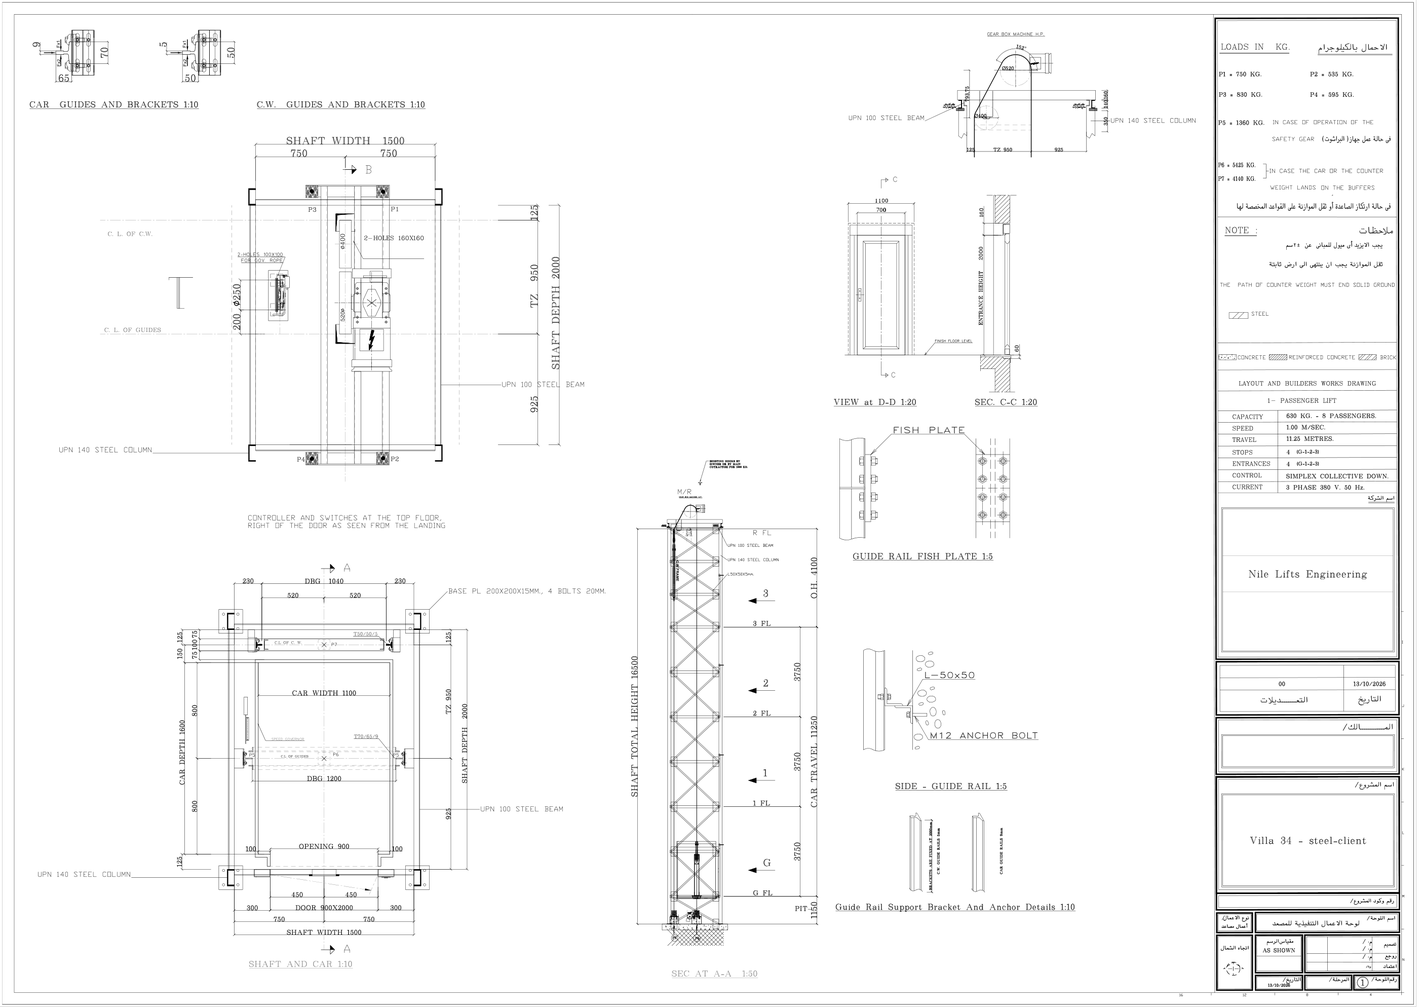
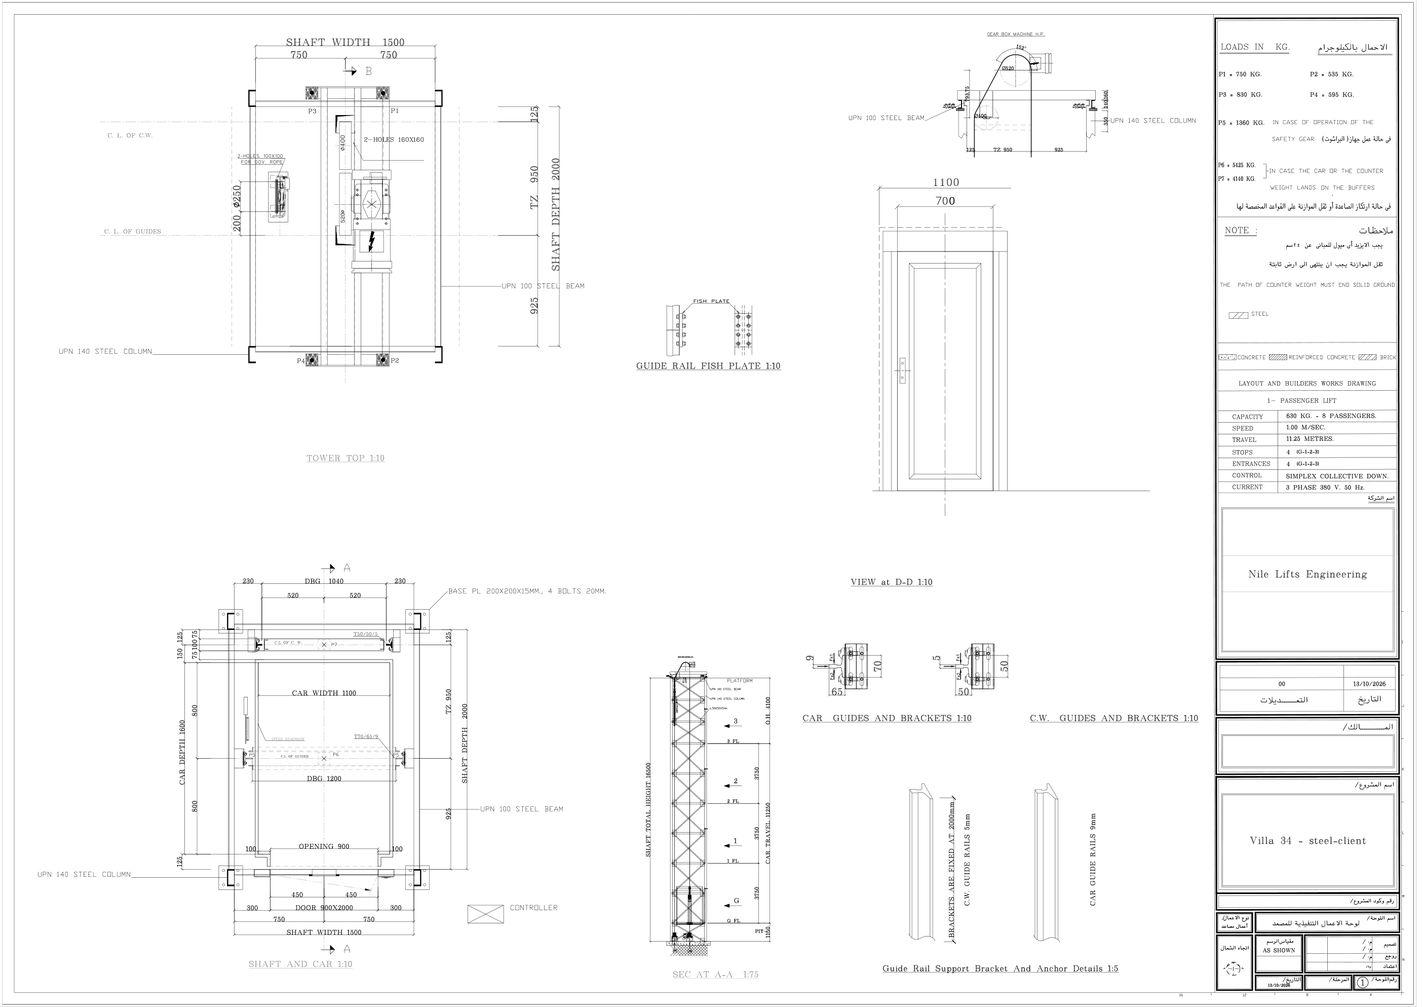
Steel S3 fix round: tower-top title, leftovers, concrete-only details left out, controller symbol

diff --git a/ElevatorAutomation/Elevator.AutoCAD/Sheet/SheetAssembler.cs b/ElevatorAutomation/Elevator.AutoCAD/Sheet/SheetAssembler.cs
@@ -59,7 +59,10 @@ namespace Elevator.AutoCAD.Sheet
                     layoutId = CreateLayout(db, layoutName);
                     CloneTemplate(db, src, layoutName, layoutId);
                     if (request.SteelStructure)
+                    {
                         SteelLegend(db, layoutId);
+                        HideConcreteDetails(db, details, request.DoorType);
+                    }
                 }
             }
             catch
@@ -239,6 +242,146 @@ namespace Elevator.AutoCAD.Sheet
         // A steel shaft: the two masonry notes of the title block (English and Arabic, "all dimensions are for finished masonry") do not
         // apply and are left out; a STEEL entry is added to the legend in the place they leave. The template is not edited.
         const double NoteX0 = 1021, NoteX1 = 1170, NoteY0 = 566, NoteY1 = 591;
+
+        // A steel shaft: the reference details that show a concrete shaft are left out until their steel versions are drawn: the rail
+        // bracket anchored in concrete ("SIDE - GUIDE RAIL", below the fish plate) and the door section C-C (the concrete wall). The
+        // entities stay in the drawing, hidden; the arrangement measures what is visible.
+        static void HideConcreteDetails(Database db, SheetDetailsFile details, string doorType)
+        {
+            bool manual = String.IsNullOrWhiteSpace(doorType) || String.Equals(doorType, DoorTypesManual, StringComparison.OrdinalIgnoreCase);
+            var fish = details.Details.FirstOrDefault(d => d.Name == "FISH_PLATE");
+            var door = details.Details.FirstOrDefault(d => d.Name == (manual ? "DOOR_SWING" : "DOOR_AUTOMATIC"));
+            using (var tr = db.TransactionManager.StartTransaction())
+            {
+                var model = (BlockTableRecord)tr.GetObject(SymbolUtilityServices.GetBlockModelSpaceId(db), OpenMode.ForRead);
+                var entities = new List<Entity>();
+                foreach (ObjectId id in model)
+                {
+                    var e = tr.GetObject(id, OpenMode.ForRead) as Entity;
+                    if (e != null && e.Visible && SectionAADrawing.Tag(e) == null)
+                        entities.Add(e);
+                }
+                // The door detail holds two views side by side, VIEW at D-D and SEC. C-C, each with its title. The section starts after
+                // the widest empty stretch (of the centres of the entities) between the two titles.
+                double split = Double.NaN;
+                if (door != null)
+                {
+                    var w = door.Window;
+                    var titles = new List<double>();
+                    foreach (var e in entities.OfType<MText>())
+                    {
+                        string t = e.Contents ?? "";
+                        if (e.Location.X >= w[0] && e.Location.X <= w[2] && e.Location.Y >= w[1] && e.Location.Y <= w[3] && (t.Contains("D-D") || t.Contains("C-C")))
+                            titles.Add(e.Location.X);
+                    }
+                    if (titles.Count >= 2)
+                    {
+                        double lo = titles.Min(), hi = titles.Max();
+                        var centres = new List<double>();
+                        foreach (var e in entities)
+                        {
+                            try
+                            {
+                                var box = e.GeometricExtents;
+                                double cx = (box.MinPoint.X + box.MaxPoint.X) / 2, cy = (box.MinPoint.Y + box.MaxPoint.Y) / 2;
+                                if (cx > lo && cx < hi && cy >= w[1] && cy <= w[3])
+                                    centres.Add(cx);
+                            }
+                            catch (Autodesk.AutoCAD.Runtime.Exception)
+                            {
+                            }
+                        }
+                        centres.Sort();
+                        double best = 0;
+                        for (int i = 1; i < centres.Count; i++)
+                        {
+                            if (centres[i] - centres[i - 1] > best)
+                            {
+                                best = centres[i] - centres[i - 1];
+                                split = (centres[i] + centres[i - 1]) / 2;
+                            }
+                        }
+                    }
+                }
+                // The right edge of the door of VIEW at D-D: the tall entities (frame, leaf) left of the split. What lies right of it
+                // belongs to the section: its cut marks, its trace and the section itself.
+                double frameRight = Double.NaN, doorBottom = Double.NaN, doorTop = Double.NaN;
+                if (door != null && !Double.IsNaN(split))
+                {
+                    foreach (var e in entities)
+                    {
+                        try
+                        {
+                            var box = e.GeometricExtents;
+                            double cx = (box.MinPoint.X + box.MaxPoint.X) / 2, cy = (box.MinPoint.Y + box.MaxPoint.Y) / 2;
+                            if (cx < split && cx >= door.Window[0] && cy >= door.Window[1] && cy <= door.Window[3] && box.MaxPoint.Y - box.MinPoint.Y > 1000)
+                            {
+                                frameRight = Double.IsNaN(frameRight) ? box.MaxPoint.X : Math.Max(frameRight, box.MaxPoint.X);
+                                doorBottom = Double.IsNaN(doorBottom) ? box.MinPoint.Y : Math.Min(doorBottom, box.MinPoint.Y);
+                                doorTop = Double.IsNaN(doorTop) ? box.MaxPoint.Y : Math.Max(doorTop, box.MaxPoint.Y);
+                            }
+                        }
+                        catch (Autodesk.AutoCAD.Runtime.Exception)
+                        {
+                        }
+                    }
+                }
+                foreach (var e in entities)
+                {
+                    Extents3d box;
+                    try
+                    {
+                        box = e.GeometricExtents;
+                    }
+                    catch (Autodesk.AutoCAD.Runtime.Exception)
+                    {
+                        continue;
+                    }
+                    double cx = (box.MinPoint.X + box.MaxPoint.X) / 2, cy = (box.MinPoint.Y + box.MaxPoint.Y) / 2;
+                    bool hide = false;
+                    if (fish != null && cx >= fish.Window[0] && cx <= fish.Window[2] && cy >= fish.Window[1] && cy < 1000)
+                        hide = true;
+                    if (door != null && !Double.IsNaN(split) && cx >= door.Window[0] && cx <= door.Window[2] && cy >= door.Window[1] && cy <= door.Window[3])
+                    {
+                        bool longLine = box.MaxPoint.X - box.MinPoint.X > 800 && box.MaxPoint.Y - box.MinPoint.Y < 5;
+                        if (longLine && !Double.IsNaN(frameRight) && box.MinPoint.X < frameRight)
+                        {
+                            // the floor line of the door runs on under the section: it ends a little beyond the door
+                            var ln = e as Line;
+                            if (ln != null)
+                            {
+                                e.UpgradeOpen();
+                                if (ln.StartPoint.X > ln.EndPoint.X)
+                                    ln.StartPoint = new Point3d(frameRight + 150, ln.StartPoint.Y, ln.StartPoint.Z);
+                                else
+                                    ln.EndPoint = new Point3d(frameRight + 150, ln.EndPoint.Y, ln.EndPoint.Z);
+                            }
+                            var pl = e as Polyline;
+                            if (pl != null && pl.NumberOfVertices == 2)
+                            {
+                                e.UpgradeOpen();
+                                int right = pl.GetPoint2dAt(0).X > pl.GetPoint2dAt(1).X ? 0 : 1;
+                                var v = pl.GetPoint2dAt(right);
+                                pl.SetPointAt(right, new Point2d(frameRight + 150, v.Y));
+                            }
+                        }
+                        else if (cx > split || (!Double.IsNaN(frameRight) && cx > frameRight + 1))
+                            hide = true;
+                        // the cut marks of the section C-C above and below the door view (arrows, the letter, the trace)
+                        else if (!Double.IsNaN(doorTop) && (cy > doorTop + 600 || cy < doorBottom - 200) && !longLine && !(e is MText))
+                            hide = true;
+                    }
+                    if (hide)
+                    {
+                        e.UpgradeOpen();
+                        e.Visible = false;
+                    }
+                }
+                tr.Commit();
+            }
+        }
+
+        const string DoorTypesManual = "Manual";
 
         static void SteelLegend(Database db, ObjectId layoutId)
         {
@@ -559,8 +702,10 @@ namespace Elevator.AutoCAD.Sheet
         {
             if (key == null)
                 return null;
-            if (key.StartsWith("MachineRoomSection.", StringComparison.Ordinal))
+            if (key.StartsWith("MachineRoomSection.", StringComparison.Ordinal) || key.StartsWith("Steel.Section.", StringComparison.Ordinal))
                 return "Section B-B";
+            if (key.StartsWith("Steel.MachineRoom.", StringComparison.Ordinal))
+                return "Machine-room plan";
             if (key.StartsWith("MachineRoom.", StringComparison.Ordinal))
                 return "Machine-room plan";
             if (key.StartsWith("SectionAA.", StringComparison.Ordinal))
@@ -629,6 +774,8 @@ namespace Elevator.AutoCAD.Sheet
                     // untagged: a title text of a reference detail (underlined, inside its window)
                     if (tag != null && tag.Length > 0)
                         continue;
+                    if (!mt.Visible)
+                        continue; // a detail left out of this sheet
                     foreach (var d in details)
                     {
                         var w = d.Value.Window;

diff --git a/ElevatorAutomation/Elevator.AutoCAD/Steel/SteelDrawing.cs b/ElevatorAutomation/Elevator.AutoCAD/Steel/SteelDrawing.cs
@@ -306,6 +306,13 @@ namespace Elevator.AutoCAD.Steel
             var f = s.Frame;
             var w = new Writer(db, tr, PlanPrefix, "steel", (u, v) => f.World(new Point3d(u, v, 0)));
             PlanTower(w, st, st.Plan.Columns, st.Plan.Beams, true);
+            // the controller and the switches are at the top floor, right of the door as seen from the landing: a cabinet outside the
+            // entrance, right of the tower
+            double x0 = st.Inputs.WidthMm + 450, y0 = -450, cw = 300, ch = 150;
+            w.Rect(x0, y0, x0 + cw, y0 + ch);
+            w.Seg(x0, y0, x0 + cw, y0 + ch);
+            w.Seg(x0, y0 + ch, x0 + cw, y0);
+            w.Text(x0 + cw + 60, y0 + ch, PlanTextHeight, "CONTROLLER");
         }
 
         // The columns (solid sections), the base plates with their bolts and the beam ring, in plan; labels in the style of the guide-rail
@@ -372,23 +379,73 @@ namespace Elevator.AutoCAD.Steel
             "MachineRoom.Dimension.RightExtension"
         };
 
-        /// <summary>Clears the steel entities of the machine-room plan and shows the room again.</summary>
+        const string LeftoverRecord = "SteelMachineRoomHidden";
+
+        /// <summary>Clears the steel entities of the machine-room plan and shows the room and the leftovers again.</summary>
         public static void ClearMachineRoom(Database db, Transaction tr)
         {
             Clear(db, tr, MachineRoomPrefix, "MachineRoom.", MachineRoomRoles, MachineRoomKeys);
+            var hidden = ProjectDataStorage.Read<List<string>>(db, tr, LeftoverRecord);
+            if (hidden == null || hidden.Count == 0)
+                return;
+            foreach (ObjectId id in Model(db, tr, OpenMode.ForRead))
+            {
+                var e = (Entity)tr.GetObject(id, OpenMode.ForRead);
+                var tag = Tag(e);
+                if (tag != null && !e.Visible && hidden.Contains(tag[0]))
+                {
+                    e.UpgradeOpen();
+                    e.Visible = true;
+                }
+            }
+            ProjectDataStorage.Write(db, tr, LeftoverRecord, new List<string>());
+        }
+
+        // Details of the concrete machine room that stand outside the tower: the wall-opening symbol left of the shaft (tagged with
+        // the governor in the master): lines and polylines of the governor assembly further than 450 mm outside the left face.
+        static List<string> HideLeftovers(Database db, Transaction tr, ShaftFrame frame)
+        {
+            var keys = new List<string>();
+            foreach (ObjectId id in Model(db, tr, OpenMode.ForRead))
+            {
+                var e = (Entity)tr.GetObject(id, OpenMode.ForRead);
+                var tag = Tag(e);
+                if (tag == null || tag[1] != "governor" || !tag[0].StartsWith("MachineRoom.", StringComparison.Ordinal) || !e.Visible)
+                    continue;
+                if (!(e is Line) && !(e is Polyline))
+                    continue;
+                Extents3d box;
+                try
+                {
+                    box = e.GeometricExtents;
+                }
+                catch (Autodesk.AutoCAD.Runtime.Exception)
+                {
+                    continue;
+                }
+                double x1 = Math.Max(frame.Local(box.MinPoint).X, frame.Local(box.MaxPoint).X);
+                if (x1 < -450)
+                {
+                    e.UpgradeOpen();
+                    e.Visible = false;
+                    keys.Add(tag[0]);
+                }
+            }
+            return keys;
         }
 
         /// <summary>Draws the top of the tower in place of the machine room (call after the machine-room update).</summary>
         public static void DrawMachineRoom(Database db, Transaction tr, ShaftFrame frame, SteelStructure st)
         {
             Hide(db, tr, "MachineRoom.", MachineRoomRoles, MachineRoomKeys);
+            var left = HideLeftovers(db, tr, frame);
+            ProjectDataStorage.Write(db, tr, LeftoverRecord, left);
             var w = new Writer(db, tr, MachineRoomPrefix, "MachineRoom", (u, v) => frame.World(new Point3d(u, v, 0)));
             var top = st.TowerTop;
             PlanTower(w, st, top.Columns, top.Beams, false);
-            // under the tower, clear of the dimensions and the labels
-            double x = top.Outline.X0, y = top.Outline.Y0 - 450;
-            w.Text(x, y, PlanTextHeight, "CONTROLLER AND SWITCHES AT THE TOP FLOOR,");
-            w.Text(x, y - PlanTextHeight * 1.6, PlanTextHeight, "RIGHT OF THE DOOR AS SEEN FROM THE LANDING");
+            // the title of the view: the sheet writes its scale into it, as into the other titles
+            var title = w.Text(st.Inputs.WidthMm / 2, top.Outline.Y0 - 750, PlanTextHeight * 2, "{\\Fcent|c0;\\L\\C6;TOWER TOP 1:10}");
+            title.Attachment = AttachmentPoint.TopCenter;
         }
 
         // ---------- section B-B (the machine on the steel top frame) ----------
@@ -481,6 +538,9 @@ namespace Elevator.AutoCAD.Steel
             if (key.StartsWith(AAPrefix, StringComparison.Ordinal))
                 return false;
             if (AAKeyPrefixes.Any(p => key.StartsWith(p, StringComparison.Ordinal)))
+                return true;
+            // the machine-room label and the hoisting hook of the concrete ceiling
+            if (key.StartsWith("SectionAA.MR.Hook.", StringComparison.Ordinal) || key == "SectionAA.MR.Room.Label")
                 return true;
             if (key.StartsWith("SectionAA.Floor.", StringComparison.Ordinal))
                 return key.Contains(".Slab.");

diff --git a/ElevatorAutomation/tests/integration/verify_steel.py b/ElevatorAutomation/tests/integration/verify_steel.py
@@ -93,7 +93,7 @@ def main():
         rects = [e for e in plan if closed_poly(e, 4)]
         circles = [e for e in plan if e.dxftype() == "CIRCLE"]
         check(len(cols) == 4, case + ": the plan has four column sections (" + str(len(cols)) + ")")
-        check(len(rects) == 8, case + ": four base plates and four ring beams in plan (" + str(len(rects)) + ")")
+        check(len(rects) == 9, case + ": four base plates, four ring beams and the controller cabinet in plan (" + str(len(rects)) + ")")
         check(len(circles) == 4 * bolts, case + ": " + str(4 * bolts) + " bolt circles in plan (" + str(len(circles)) + ")")
         check(sum(1 for e in plan if e.dxftype() == "HATCH") == 4, case + ": four solid column sections")
         check(any(e.dxftype() == "MTEXT" and tower["Column"] in e.text and "STEEL COLUMN" in e.text for e in plan), case + ": the plan names the column profile")
@@ -107,7 +107,11 @@ def main():
         check(not any(e.dxftype() == "CIRCLE" for e in mr), case + ": no base plate bolts at the tower top")
         room = [e for e, t in tagged if t[1] == "room" and t[0].startswith("MachineRoom.")]
         check(len(room) > 0 and all(invisible(e) for e in room), case + ": the room walls are hidden")
-        check(any(e.dxftype() == "MTEXT" and "CONTROLLER AND SWITCHES" in e.text for e in mr), case + ": the controller note is there")
+        check(any(e.dxftype() == "MTEXT" and "TOWER TOP" in e.text and "1:" in e.text for e in mr), case + ": the tower-top plan has its title with the scale")
+        check(not any(e.dxftype() == "MTEXT" and "CONTROLLER AND SWITCHES" in e.text for e in mr), case + ": no long controller note")
+        check(any(e.dxftype() == "MTEXT" and "CONTROLLER" in e.text for e in plan), case + ": the plan has the controller symbol label")
+        hidden_leftovers = [e for e, t in tagged if t[1] == "governor" and invisible(e)]
+        check(len(hidden_leftovers) > 0, case + ": the wall-opening leftover of the concrete room is hidden (" + str(len(hidden_leftovers)) + ")")
         # ---- B-B ----
         bb = [e for e, t in tagged if t[0].startswith("Steel.Section.")]
         check(sum(1 for e in bb if closed_poly(e, 8)) == 2, case + ": B-B has the two top beams")
@@ -142,6 +146,13 @@ def main():
         replaced = [e for e, t in tagged if t[0].startswith("SectionAA.Floor.") and ".Slab." in t[0]]
         replaced += [e for e, t in tagged if t[0].startswith(("SectionAA.Shaft.", "SectionAA.MR.Wall.", "SectionAA.MR.Ceiling"))]
         check(len(replaced) > 0 and all(invisible(e) for e in replaced), case + ": the A-A walls, slabs and room walls are hidden (" + str(len(replaced)) + ")")
+        # ---- details of a concrete shaft left out of a steel sheet ----
+        untagged = [e for e in ms if e.dxftype() == "MTEXT" and not tag(e)]
+        for text in ("SIDE - GUIDE RAIL", "SEC. C-C"):
+            found = [e for e in untagged if text in e.text and invisible(e)]
+            check(len(found) >= 1, case + ": the concrete detail " + text + " is hidden")
+        check(any("VIEW at D-D" in e.text and not invisible(e) for e in untagged), case + ": the door view D-D stays")
+        check(any("FISH PLATE" in e.text and not invisible(e) for e in untagged), case + ": the fish plate stays")
         # ---- the sheet ----
         layout = doc.layouts.get(LAYOUT)
         texts = [e.text for e in layout if e.dxftype() == "MTEXT"]

diff --git a/ElevatorAutomation/Elevator.AutoCAD/SectionAA/SectionAADrawing.cs b/ElevatorAutomation/Elevator.AutoCAD/SectionAA/SectionAADrawing.cs
@@ -416,7 +416,7 @@ namespace Elevator.AutoCAD.SectionAA
                 var roomLabel = new MText { Location = new Point3d(left + 300, g.Ceiling - 250, 0), TextHeight = 200, Contents = "M/R" };
                 roomLabel.SetDatabaseDefaults(db);
                 add(roomLabel, "MR.Room.Label", "annotation");
-                var rlabel = new MText { Location = new Point3d(1450, g.R + 240, 0), TextHeight = 200, Contents = "R FL" };
+                var rlabel = new MText { Location = new Point3d(1450, g.R + 240, 0), TextHeight = 200, Contents = steel == null ? "R FL" : "PLATFORM" };
                 rlabel.SetDatabaseDefaults(db);
                 add(rlabel, "MR.R.Label", "annotation");
                 if (steel != null)

diff --git a/SESSION_HANDOFF.md b/SESSION_HANDOFF.md
@@ -16,6 +16,12 @@ This file is the shared status channel between the user's Planner chat and Execu
 - **Goal:** (done) D1: automatic doors, Core + UI, no drawing changes. Earlier: ARCHITECTURE-PLAN P0-P8, then release v04.
 - **Last updated:** 2026-10-14 (Claude Code, Executor role; stage S3 steel shaft, branch feature/steel-s3)
 - **Completed:**
+- **S3 fix round (Planner, 2026-10-14), same branch `feature/steel-s3`; not merged, not pushed; wait for the user's test.**
+  - **1. Tower-top plan title:** "TOWER TOP 1:10" in the sheet style (an own text tagged to the view; the sheet writes the real scale into it, 5 mm printed, like the other titles).
+  - **2. Leftovers:** the "T" left of the tower-top plan was the wall-opening symbol of the concrete machine room (tagged with the governor in the master): the lines and polylines of the governor assembly more than 450 mm outside the left face are hidden for steel and shown again when the construction is concrete (`SteelMachineRoomHidden` record). Checked the other views: A-A: the "M/R" label and the hoisting hook of the concrete ceiling are hidden, the "R FL" label reads "PLATFORM"; plan and B-B: nothing else (walls, slab and blocks were already hidden).
+  - **3. Concrete-only details left out of a steel sheet** (hidden in the generated drawing, the template untouched; the arrangement re-packs): "SIDE - GUIDE RAIL" (rail bracket with M12 anchor bolt into concrete) and the door section "SEC. C-C" with its cut marks above and below the door view and its trace; the door floor line is trimmed to the door. Kept: VIEW at D-D, the fish plate, the guides and brackets, the rail support detail. Hidden at the sheet step: `SheetAssembler.HideConcreteDetails`.
+  - **4. Controller:** the long note is dropped; a controller symbol (cabinet with a cross) labelled "CONTROLLER" stands in the shaft plan at the landing, right of the door as seen from the landing (outside the entrance, right of the tower), same text height as the other labels.
+  - **Evidence** re-plotted: `docs/design/steel-shaft/s3/steel-client-*` and `steel-default-*`. **Tests:** tier 1 PASS (core-net8.0 870, core-net48 1026, reporting 202 + 202, golden 770, sheet-wpf 10763), `steel-native` PASS (83 + 63 read-back checks, now also the title, the leftover, the controller and the hidden details), `layouts-native` PASS 328, `steel-ui` PASS 71. Test build `artifacts/bin-try-s3`.
 - **Stage S3 (steel shaft, local, 2026-10-14), branch `feature/steel-s3` from main with `origin/cloud/steel-s2` merged --no-ff; not merged to main, not pushed.** Commits: DESIGN-FLOW "steel beam levels per face (Planner)" on main first; merge of S2; `4dd58c6` Core (beam levels per face); `ee726f3` UI and drawings; evidence and handoff after. `artifacts/bin-try-s3` is the test build.
   - **1. Merge of `origin/cloud/steel-s2` and tier 1 on net48, golden, sheet-wpf (not run in the cloud):** the merge was clean and every suite passes on the merged code (core-net48 1026, reporting-net48 202, golden 770, sheet-wpf 10763, with the new tests). Nothing failed in the cloud code. One observation: in one of the runs `LayoutsTests.Control_and_supply_follow_the_preset_until_edited_then_lock_and_reset` failed on net48 only (the serialized project differed in the SafetyPit group after the title-block edits); the same code passed three times afterwards, alone and with every other class, in Debug and Release, and under `tools/test.ps1`. It looks like a race of the net48 test host under load (parallel suites, shared static state); not reproduced, not fixed, listed here.
   - **2. Core, per face (Planner correction):** `SteelBeamLevels.Rule(..., entranceFace)`: s = the effective car rail bracket spacing (recommended by the rail check or typed on RAILS; the steel beam-spacing preset and the derived-spacing direction are gone). Side and back faces: a beam at every floor, each gap between floors, the pit and the top divided equally into the fewest parts not larger than s. Entrance face: floor beam and door-head beam, the opening is not split, from the door head to the next floor beam (or the tower top) divided equally; the pit as on the other faces. Levels are edited per face (`SteelFields.EditLevel(p, face, key, mm)`, `RemoveLevel`, `ResetLevel(s)`; stored with the face in the key). `SteelStructure.Levels` / `RuleLevels` are per face; `LargestGapMm` (side and back faces) is what `GuideRailCheckEngine` uses as the spacing of both lines. The Design Notes line about a gap that cannot be split because of a door is removed (by design); the door head that does not fit under the next floor beam is still reported. Tests: floors 3000, 3250, 3670, 6000 with s 1500 and 2000, the pit and the top, no gap under 1 mm, equal division (SteelShaftTests, SteelShaftReportTests).
